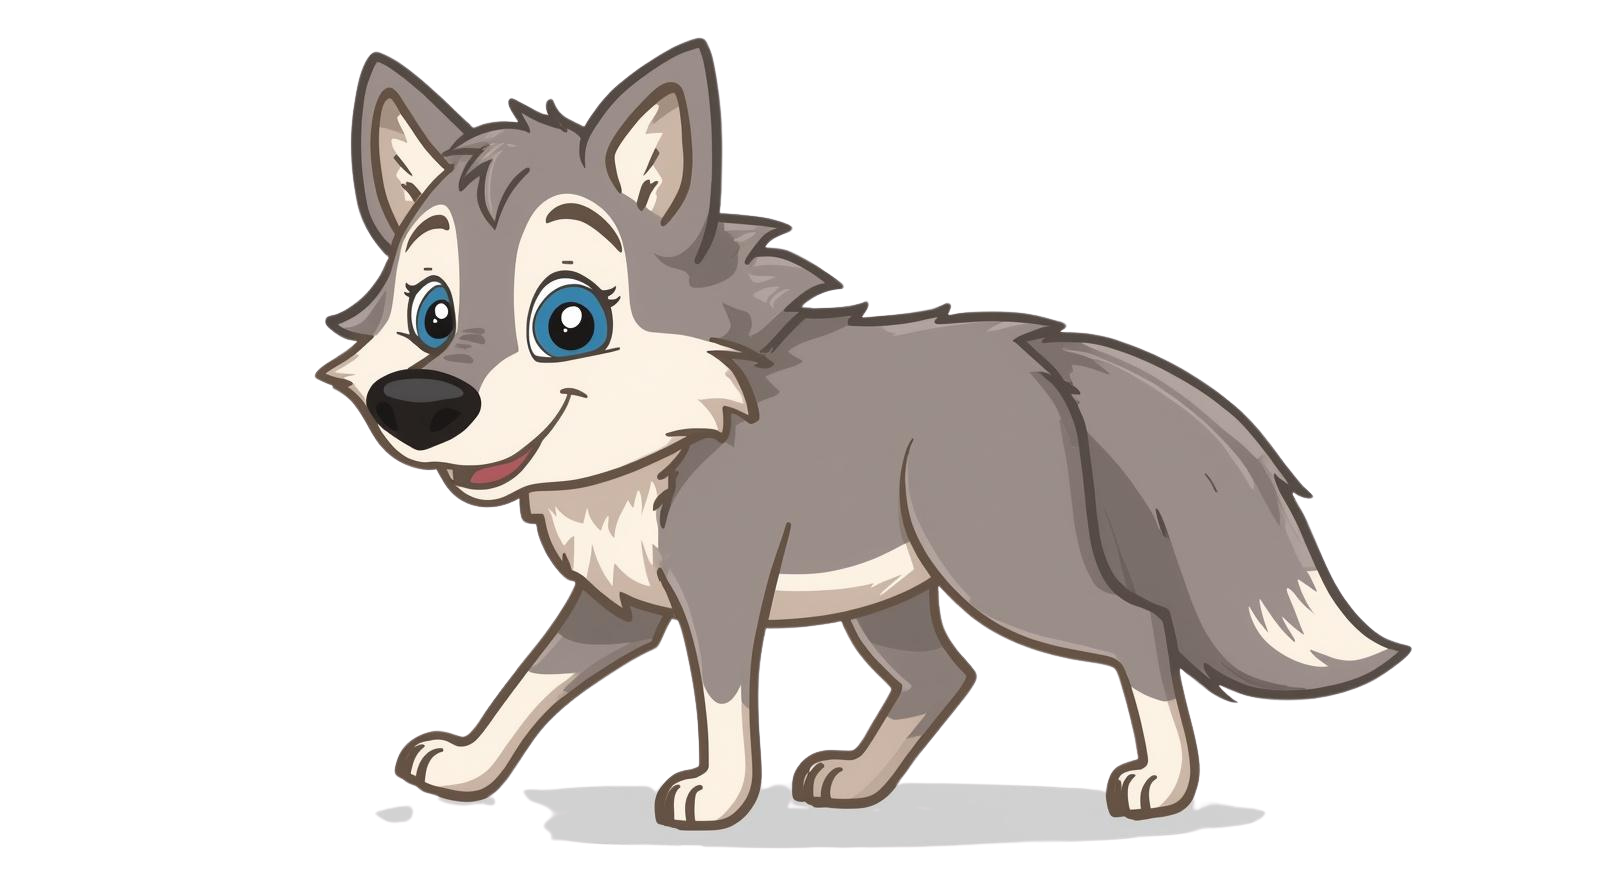
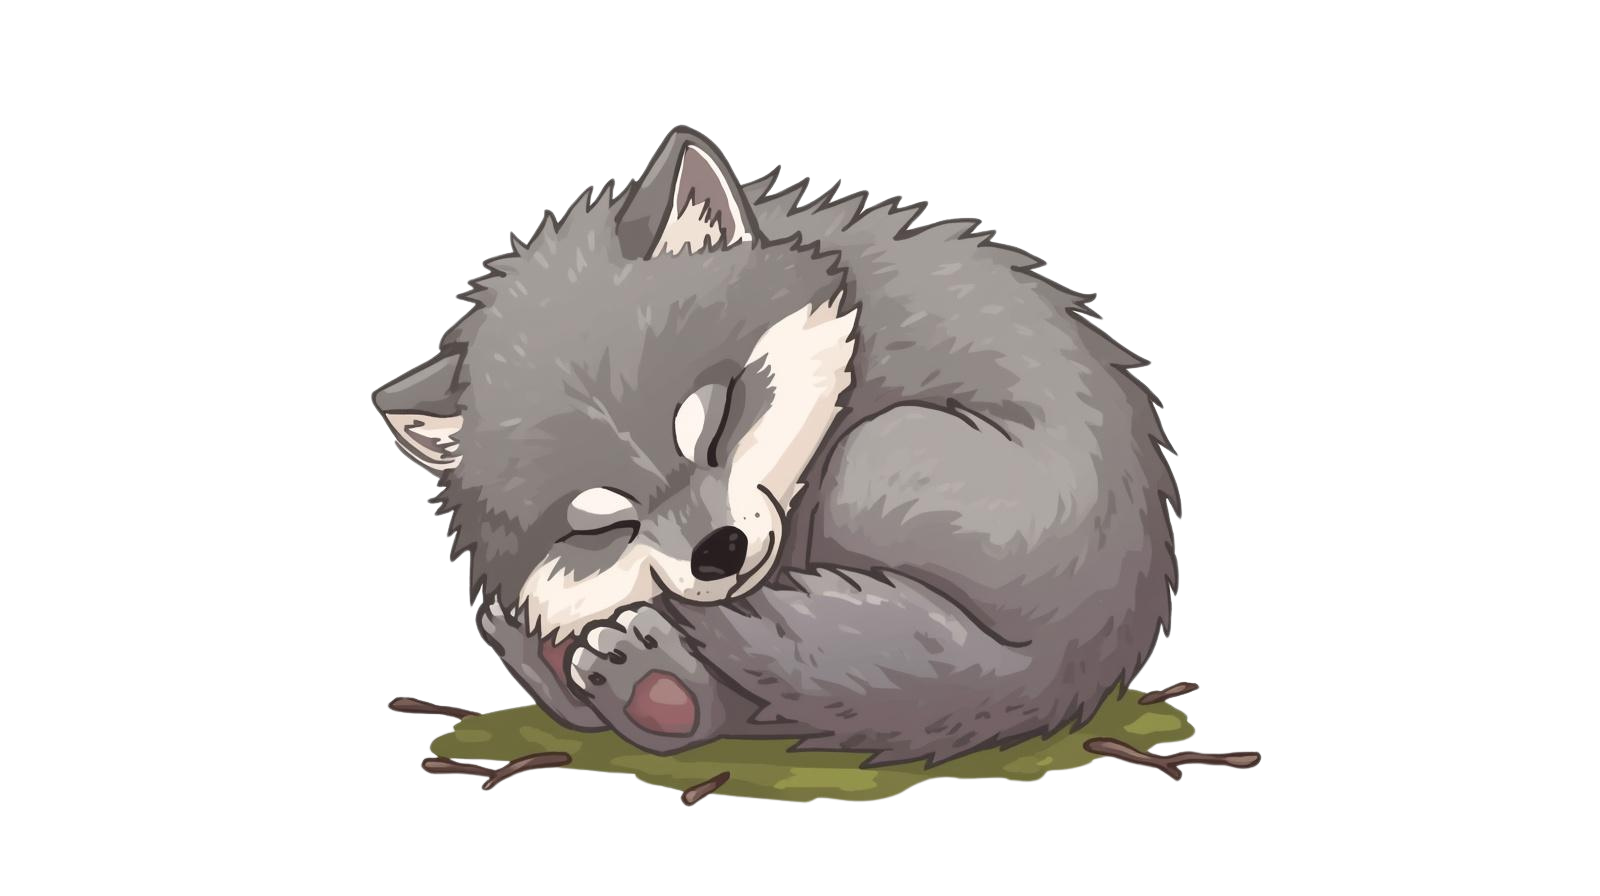
Expand wolf evolution to 6 distinct stages with new assets
Assets:
- Stage 1 (Newborn Pup): wolf-baby.png
- Stage 2 (Juvenile): shifted from old stage 1
- Stage 3 (Adolescent): shifted from old stage 2
- Stage 4 (Shadow Wolf): wolf-shadow.png
- Stage 5 (Spirit Glow): wolf-glow.png
- Stage 6 (Transcendent Alpha): old stage 3 with gold glow filter

XP thresholds: 0/400/800/1200/1600/2000+ (evenly spaced 400 XP bands)
Removed old 8-stage system; all wolf components now use unique PNG assets.
Transcendent Alpha has a golden drop-shadow aura filter.

diff --git a/src/components/avatars/WolfStages.tsx b/src/components/avatars/WolfStages.tsx
@@ -7,6 +7,9 @@
 import wolfStage1Url from "@/assets/wolf-stage1-transparent.png";
 import wolfStage2Url from "@/assets/wolf-stage2-transparent.png";
 import wolfStage3Url from "@/assets/wolf-stage3-transparent.png";
+import wolfStage4Url from "@/assets/wolf-stage4-transparent.png";
+import wolfStage5Url from "@/assets/wolf-stage5-transparent.png";
+import wolfStage6Url from "@/assets/wolf-stage6-transparent.png";
 
 type P = { className?: string };
 const GOLD = "#C4873A"; // CartoonTree golden element colour
@@ -89,60 +92,65 @@ function Wolf0({ className }: P) {
   );
 }
 
-// ── Stage 1–3: Transparent PNG wolf, large, centred on dark background ──────
+// ── Stages 1–6: Transparent PNG wolves, bottom-anchored inside circle ────────
+
+// Stage 1 — Newborn Pup (baby wolf)
 function Wolf1({ className }: P) {
   return (
     <div className={className} style={{ width: "100%", height: "100%", display: "flex", alignItems: "flex-end", justifyContent: "center" }}>
-      <img src={wolfStage1Url} alt="Wolf stage 1" style={{ width: "130%", height: "130%", objectFit: "contain", objectPosition: "center" }} />
+      <img src={wolfStage1Url} alt="Newborn Pup" style={{ width: "130%", height: "130%", objectFit: "contain", objectPosition: "center bottom" }} />
     </div>
   );
 }
 
+// Stage 2 — Juvenile
 function Wolf2({ className }: P) {
   return (
     <div className={className} style={{ width: "100%", height: "100%", display: "flex", alignItems: "flex-end", justifyContent: "center" }}>
-      <img src={wolfStage2Url} alt="Wolf stage 2" style={{ width: "130%", height: "130%", objectFit: "contain", objectPosition: "center" }} />
+      <img src={wolfStage2Url} alt="Juvenile Wolf" style={{ width: "130%", height: "130%", objectFit: "contain", objectPosition: "center bottom" }} />
     </div>
   );
 }
 
+// Stage 3 — Adolescent
 function Wolf3({ className }: P) {
   return (
     <div className={className} style={{ width: "100%", height: "100%", display: "flex", alignItems: "flex-end", justifyContent: "center" }}>
-      <img src={wolfStage3Url} alt="Wolf stage 3" style={{ width: "130%", height: "130%", objectFit: "contain", objectPosition: "center" }} />
+      <img src={wolfStage3Url} alt="Adolescent Wolf" style={{ width: "130%", height: "130%", objectFit: "contain", objectPosition: "center bottom" }} />
     </div>
   );
 }
 
-// ── Stages 4–7: transparent stage-3 PNG placeholder, large, centred ─────────
+// Stage 4 — Shadow Wolf
 function Wolf4({ className }: P) {
   return (
     <div className={className} style={{ width: "100%", height: "100%", display: "flex", alignItems: "flex-end", justifyContent: "center" }}>
-      <img src={wolfStage3Url} alt="Wolf stage 4" style={{ width: "130%", height: "130%", objectFit: "contain", objectPosition: "center" }} />
+      <img src={wolfStage4Url} alt="Shadow Wolf" style={{ width: "130%", height: "130%", objectFit: "contain", objectPosition: "center bottom" }} />
     </div>
   );
 }
 
+// Stage 5 — Spirit Glow
 function Wolf5({ className }: P) {
   return (
     <div className={className} style={{ width: "100%", height: "100%", display: "flex", alignItems: "flex-end", justifyContent: "center" }}>
-      <img src={wolfStage3Url} alt="Wolf stage 5" style={{ width: "130%", height: "130%", objectFit: "contain", objectPosition: "center" }} />
+      <img src={wolfStage5Url} alt="Spirit Glow Wolf" style={{ width: "130%", height: "130%", objectFit: "contain", objectPosition: "center bottom" }} />
     </div>
   );
 }
 
+// Stage 6 — Transcendent Alpha (spirit wolf + golden aura glow)
 function Wolf6({ className }: P) {
   return (
     <div className={className} style={{ width: "100%", height: "100%", display: "flex", alignItems: "flex-end", justifyContent: "center" }}>
-      <img src={wolfStage3Url} alt="Wolf stage 6" style={{ width: "130%", height: "130%", objectFit: "contain", objectPosition: "center" }} />
-    </div>
-  );
-}
-
-function Wolf7({ className }: P) {
-  return (
-    <div className={className} style={{ width: "100%", height: "100%", display: "flex", alignItems: "flex-end", justifyContent: "center" }}>
-      <img src={wolfStage3Url} alt="Wolf stage 7" style={{ width: "130%", height: "130%", objectFit: "contain", objectPosition: "center" }} />
+      <img
+        src={wolfStage6Url}
+        alt="Transcendent Alpha Wolf"
+        style={{
+          width: "130%", height: "130%", objectFit: "contain", objectPosition: "center bottom",
+          filter: "drop-shadow(0 0 18px rgba(196,135,58,0.85)) drop-shadow(0 0 40px rgba(196,135,58,0.45)) brightness(1.12)",
+        }}
+      />
     </div>
   );
 }
@@ -297,4 +305,5 @@ export function WolfSittingPreview({ className }: { className?: string }) {
   );
 }
 
-export const WOLF_STAGES = [Wolf0, Wolf1, Wolf2, Wolf3, Wolf4, Wolf5, Wolf6, Wolf7] as const;
+// Stage 0 (internal index 0) = Stage 1 Newborn Pup — Wolf0 SVG replaced by Wolf1 image
+export const WOLF_STAGES = [Wolf1, Wolf2, Wolf3, Wolf4, Wolf5, Wolf6] as const;

diff --git a/src/routes/tree.tsx b/src/routes/tree.tsx
@@ -41,21 +41,18 @@ const WOLF_UPGRADES = [
   { id: "wolf-ancient",      name: "Ancient instinct", desc: "Permanent +10% XP from every challenge",        costPoints: 400, costMoney: 6.99, pro: true },
 ];
 
-const WOLF_RANK_BY_STAGE = ["Beginning", "Awakening", "Building", "Established", "Rising", "Fierce", "Dominant", "Legendary"];
-const WOLF_TOP_PCT_BY_STAGE = [82, 66, 50, 38, 25, 14, 6, 1];
+const WOLF_RANK_BY_STAGE = ["Pup", "Awakening", "Building", "Shadow", "Spirit", "Transcendent"];
 
-// XP thresholds per wolf stage — mirrors treeStage() in store.ts
-const WOLF_XP_PREV = [0, 100, 250, 500, 1000, 1750, 2750, 4000] as const;
+// XP thresholds per wolf stage — 6 stages, 0-399 / 400-799 / 800-1199 / 1200-1599 / 1600-1999 / 2000+
+const WOLF_XP_PREV = [0, 400, 800, 1200, 1600, 2000] as const;
 
-function wolfXPStage(xp: number): { stage: 0|1|2|3|4|5|6|7; name: string; next: number } {
-  if (xp < 100)  return { stage: 0, name: "Newborn",    next: 100  };
-  if (xp < 250)  return { stage: 1, name: "Pup",        next: 250  };
-  if (xp < 500)  return { stage: 2, name: "Young",      next: 500  };
-  if (xp < 1000) return { stage: 3, name: "Adolescent", next: 1000 };
-  if (xp < 1750) return { stage: 4, name: "Adult",      next: 1750 };
-  if (xp < 2750) return { stage: 5, name: "Strong",     next: 2750 };
-  if (xp < 4000) return { stage: 6, name: "Alpha",      next: 4000 };
-  return { stage: 7, name: "Legendary", next: xp };
+function wolfXPStage(xp: number): { stage: 0|1|2|3|4|5; name: string; next: number } {
+  if (xp < 400)  return { stage: 0, name: "Newborn Pup",        next: 400  };
+  if (xp < 800)  return { stage: 1, name: "Juvenile",           next: 800  };
+  if (xp < 1200) return { stage: 2, name: "Adolescent",         next: 1200 };
+  if (xp < 1600) return { stage: 3, name: "Shadow Wolf",        next: 1600 };
+  if (xp < 2000) return { stage: 4, name: "Spirit Glow",        next: 2000 };
+  return { stage: 5, name: "Transcendent Alpha", next: xp };
 }
 
 // ── Deterministic star positions (avoids jitter on re-render) ─────────────────
@@ -2305,7 +2302,7 @@ function WolfPage({
   const wolfStage = wolfXPStage(state.treeXP);
   const prevThreshold = WOLF_XP_PREV[wolfStage.stage];
   const pct =
-    wolfStage.stage >= 7
+    wolfStage.stage >= 5
       ? 100
       : Math.min(100, ((state.treeXP - prevThreshold) / (wolfStage.next - prevThreshold)) * 100);
   const { state: healthState, daysThisWeek } = getCompanionHealth(state.loginHistory);

diff --git a/src/components/avatars/CompanionAvatar.tsx b/src/components/avatars/CompanionAvatar.tsx
@@ -24,17 +24,15 @@ export function dayToStage(day: number): 0 | 1 | 2 | 3 | 4 | 5 {
   return 0;
 }
 
-// Wolf: 8 stages (0–7)
-export const WOLF_STAGE_DAYS = [0, 3, 7, 14, 30, 45, 60, 90] as const;
+// Wolf: 6 stages (0–5)
+export const WOLF_STAGE_DAYS = [0, 7, 14, 30, 60, 90] as const;
 
-export function wolfDayToStage(day: number): 0 | 1 | 2 | 3 | 4 | 5 | 6 | 7 {
-  if (day >= 90) return 7;
-  if (day >= 60) return 6;
-  if (day >= 45) return 5;
-  if (day >= 30) return 4;
-  if (day >= 14) return 3;
-  if (day >= 7)  return 2;
-  if (day >= 3)  return 1;
+export function wolfDayToStage(day: number): 0 | 1 | 2 | 3 | 4 | 5 {
+  if (day >= 90) return 5;
+  if (day >= 60) return 4;
+  if (day >= 30) return 3;
+  if (day >= 14) return 2;
+  if (day >= 7)  return 1;
   return 0;
 }
 
